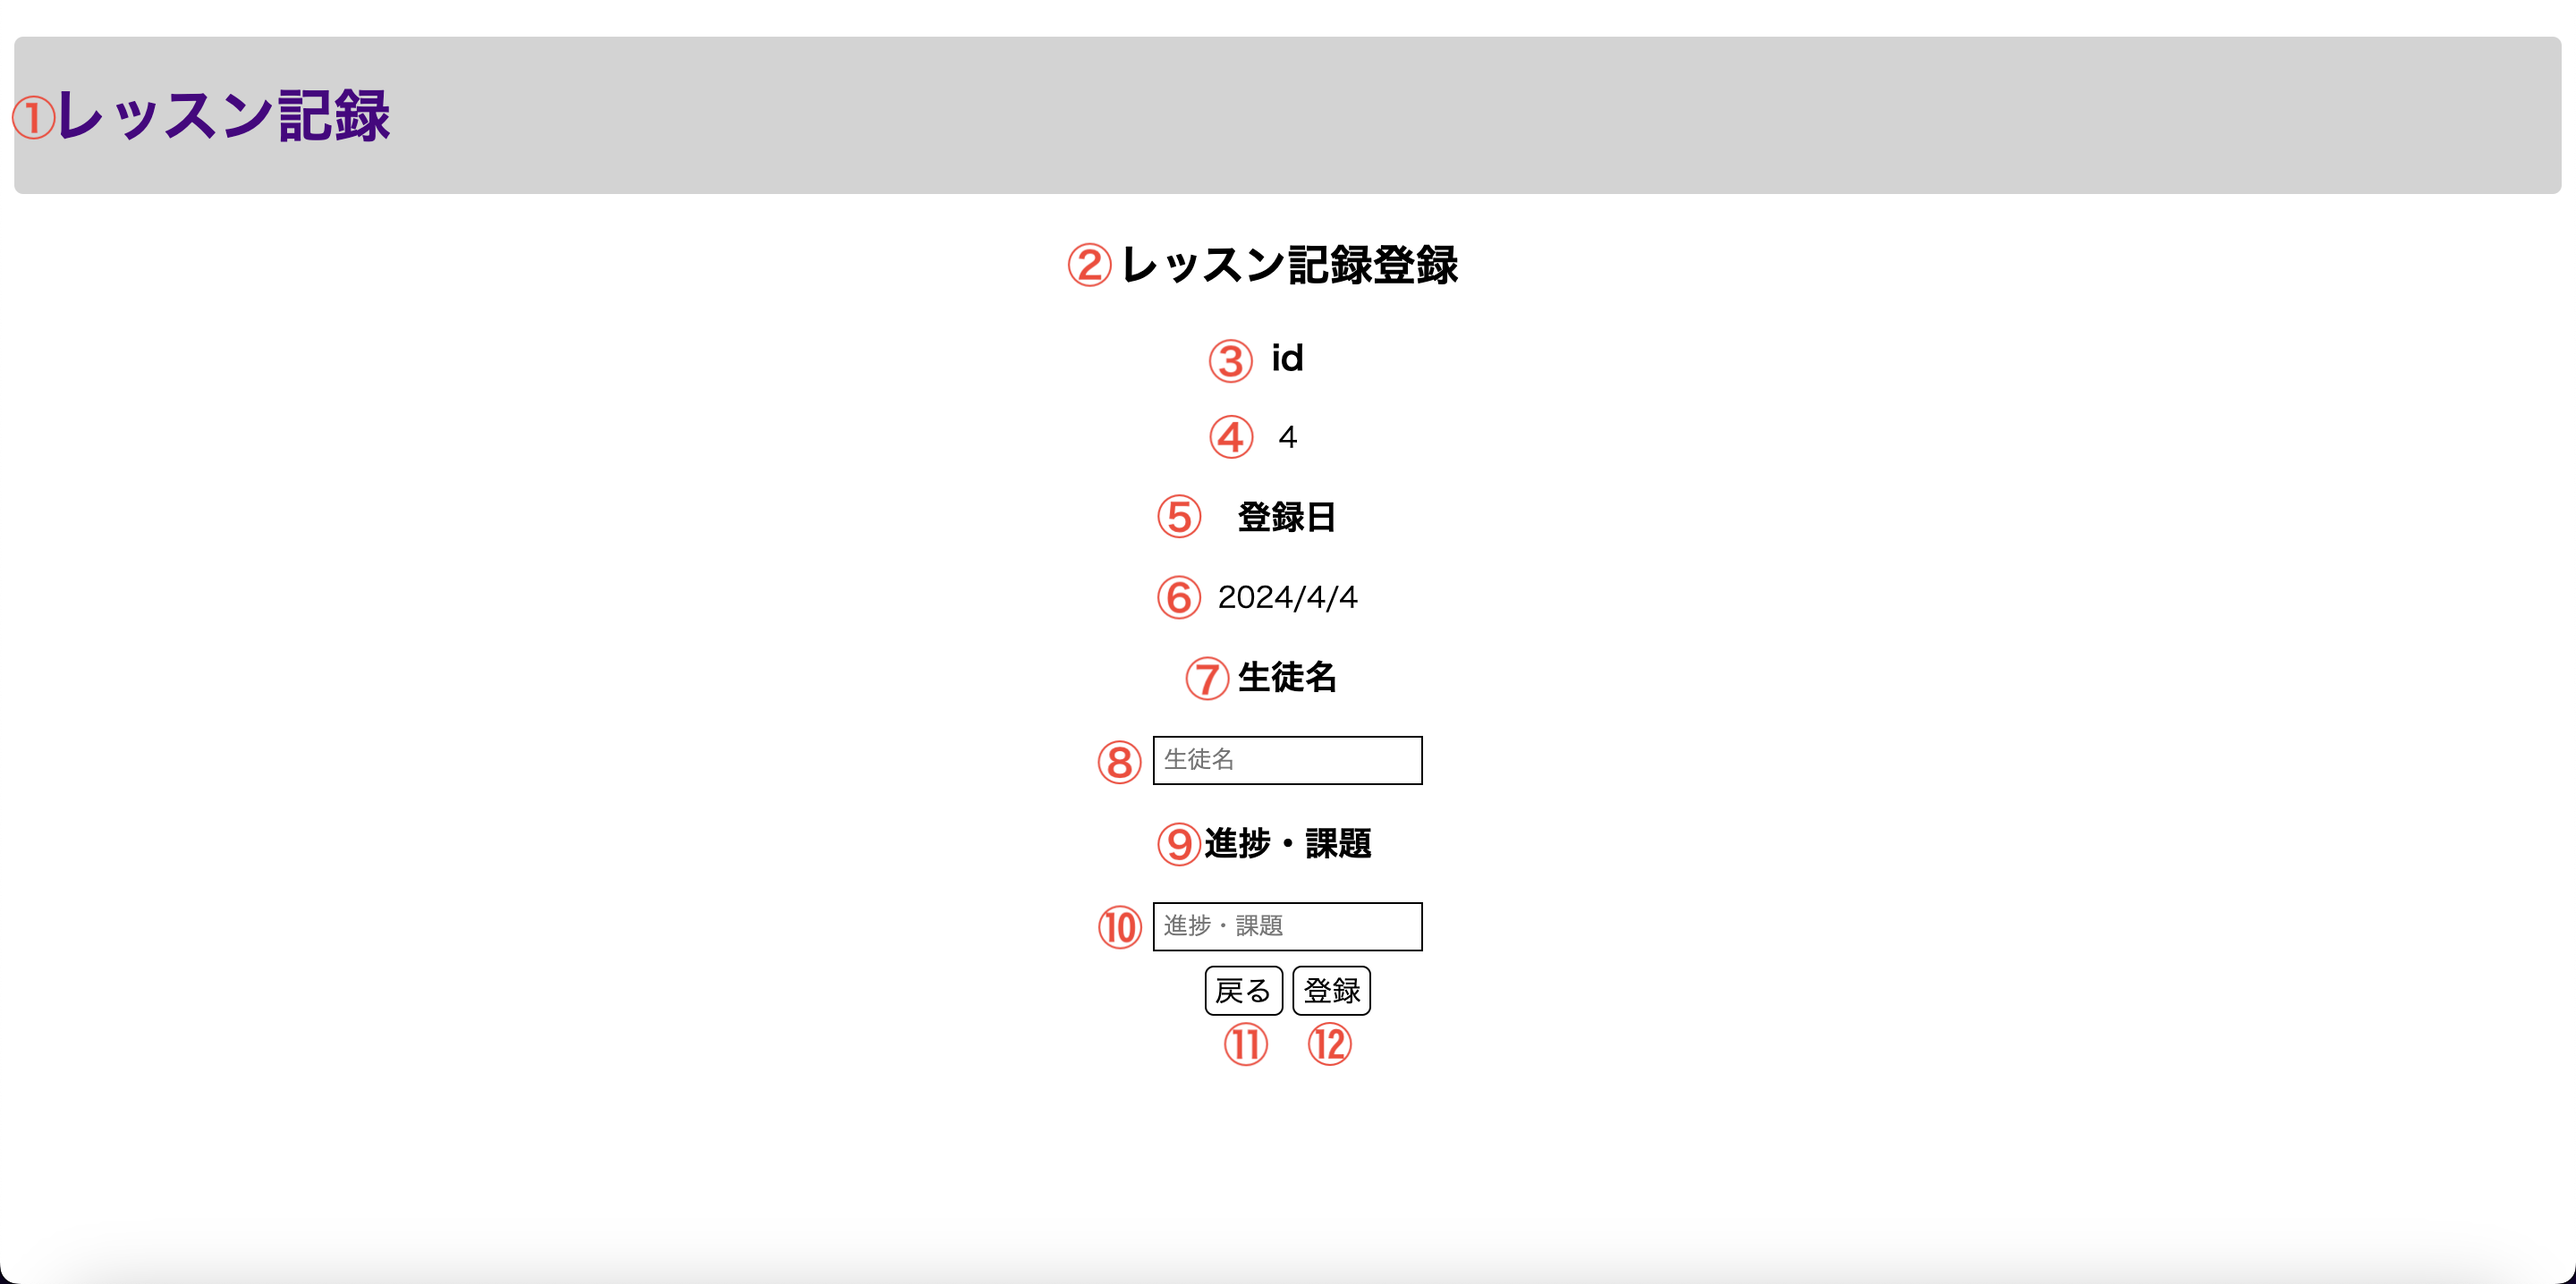
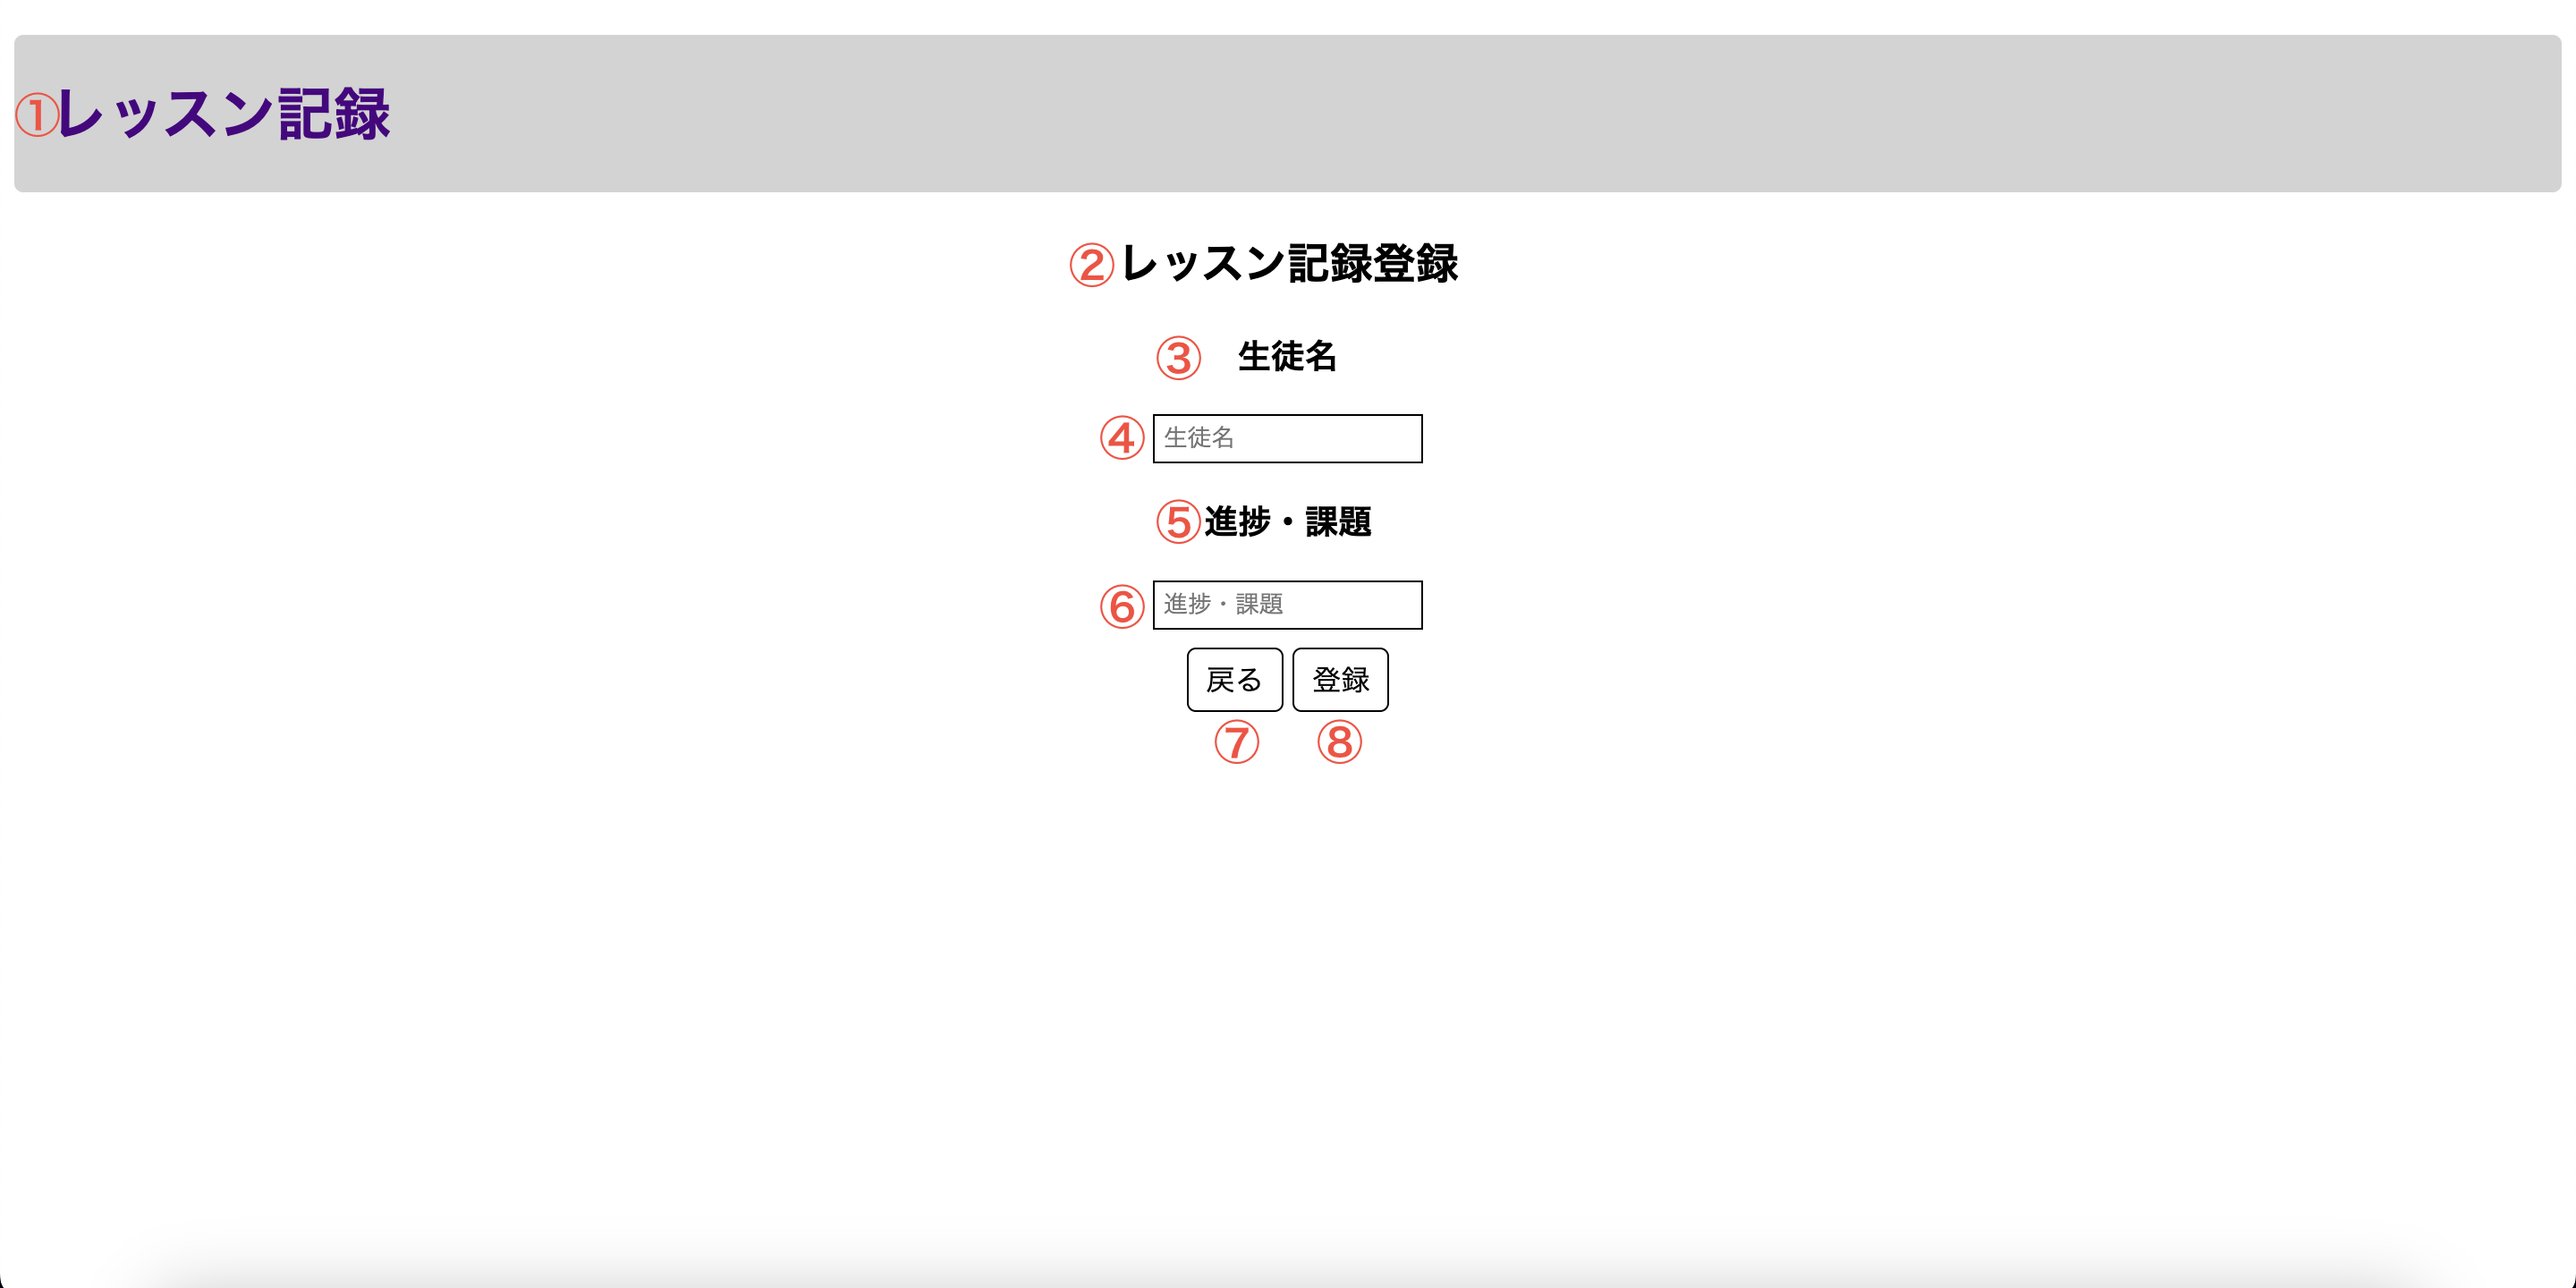
Update:レッスン記録登録画面の調整 -create.htmlにてidと登録日を削除 -調整後のcreate.htmlを基にモック画像を更新 -画面設計書にてidと登録日を削除

diff --git a/src/main/resources/templates/create.html b/src/main/resources/templates/create.html
@@ -11,12 +11,6 @@
         <h1>レッスン記録</h1>
         <h2>レッスン記録登録</h2>
         <div class="login">
-            <!-- DBのカラム"id"を元に反映 -->
-            <h3>id</h3>
-            <p>4</p>
-            <!-- 当日の日付を元に反映 -->
-            <h3>登録日</h3>
-            <p>2024/4/4</p>
             <h3>生徒名</h3>
             <input type="text" placeholder="生徒名" required>
             <h3>進捗・課題</h3>

diff --git a/docs/screen-design/create.md b/docs/screen-design/create.md
@@ -20,47 +20,31 @@ DBのテーブル"history"にid,登録日、生徒名、進捗・課題を登録
 
     画面タイトル「レッスン記録登録」を文字列で表示します。
 
-3. ID
-
-    文字列「id」を見出しで表示します。
-
-4. 取得したID
-
-    DBよりテーブル"history"にある"id"の最も大きい数に1を足した数字を文字列で表示します。
-
-5. 登録日
-
-    文字列「登録日」を見出しで表示します。
-
-6. 取得した登録日
-
-    このページを開いた日付を文字列で表示します。
-
-7. 生徒名
+3. 生徒名
 
     文字列「生徒名」を見出しで表示します。
 
-8. 生徒名入力欄
+4. 生徒名入力欄
 
     生徒名を入力するためのテキストボックスです。(最大文字数10で必須入力とする)
 
     ユーザー側が入力する前はデフォルトで文字列「生徒名」を表示します。
 
-9. 進捗・課題
+5. 進捗・課題
 
     文字列「進捗・課題」を見出しで表示します。
 
-10. 進捗・課題入力欄
+6. 進捗・課題入力欄
 
     進捗・課題を入力するためのテキストボックスです。(最大文字数200で必須入力とする)
 
     ユーザー側が入力する前はデフォルトで文字列「進捗・課題」を表示します。
 
-11. 戻るボタン
+7. 戻るボタン
 
     押下した際に記録一覧画面へ遷移します。
 
-12. 登録ボタン
+8. 登録ボタン
 
     押下した際に4,6,8,10をDBのテーブル"history"に追加の上記録一覧画面へ遷移します。
 
@@ -68,6 +52,6 @@ DBのテーブル"history"にid,登録日、生徒名、進捗・課題を登録
 ## アクション設計
 | No   | アクション名 | アクション詳細 |
 | --- | ----------- | ------- |
-| 1 | 初期表示 | レッスン記録画面から遷移したタイミングで画面構成要素より1~12を表示します。<br>4には下記の取得式で取得したものを反映させます。<br>取得式：SELECT MAX(id) + 1 FROM history; |
+| 1 | 初期表示 | レッスン記録画面から遷移したタイミングで画面構成要素より1~8を表示します。 |
 | 2 | 記録画面遷移 | 画面構成要素より11を押下した際にレッスン記録画面へ遷移します。 |
-| 3 | 記録登録処理 | 画面構成要素より12を押下した際にレッスン記録編集画面へ遷移します。 <br> 登録処理では下記の挿入式を実行します。<br>挿入式：INSERT INTO history (lessonDate, studentName, lessonMemo) VALUES(6, 8, 10);|
+| 3 | 記録登録処理 | 画面構成要素より12を押下した際にレッスン記録編集画面へ遷移します。 <br> 登録処理では下記の挿入式を実行します。<br>挿入式：INSERT INTO history (lessonDate, studentName, lessonMemo) VALUES(システム日付, 4, 6);|
